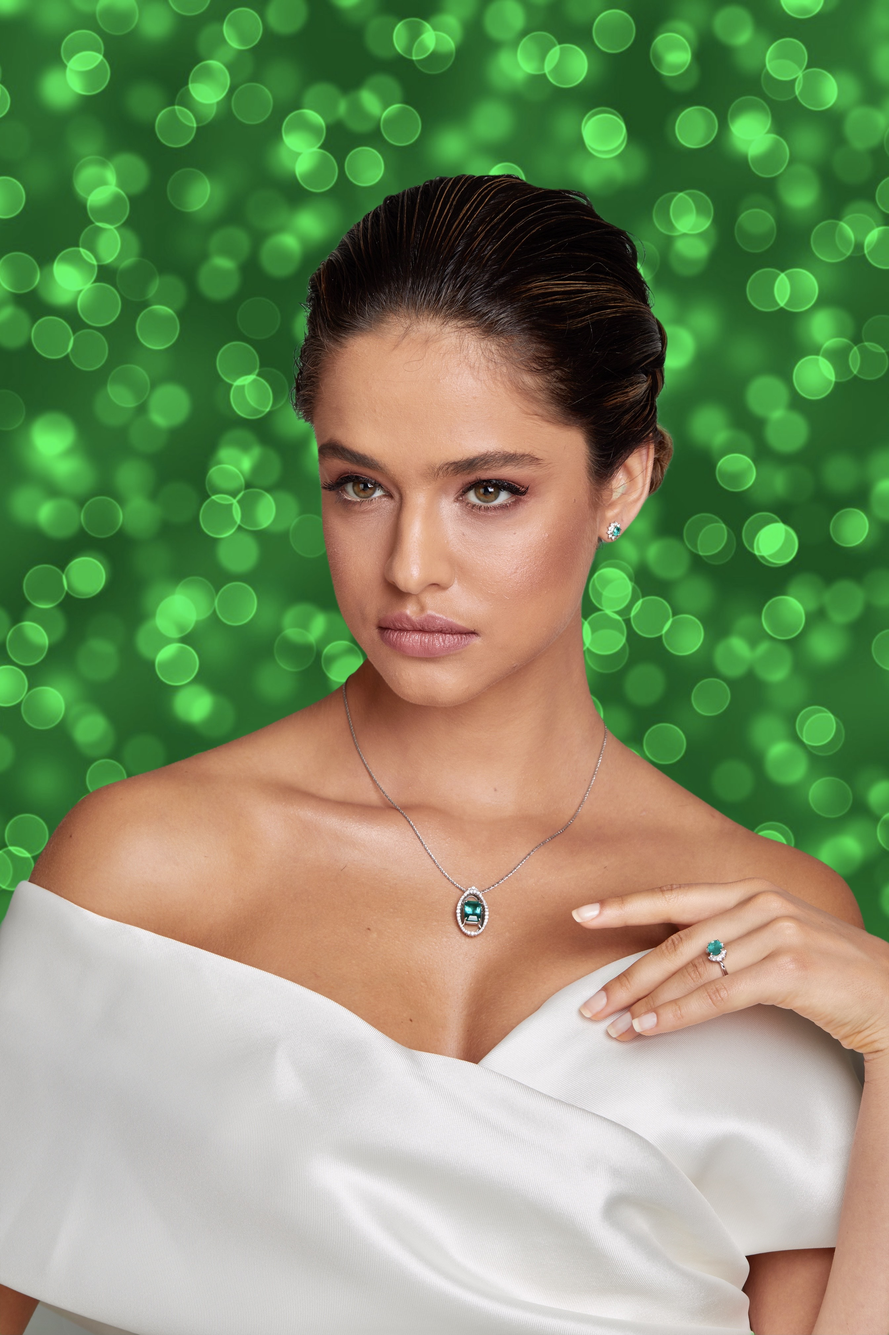
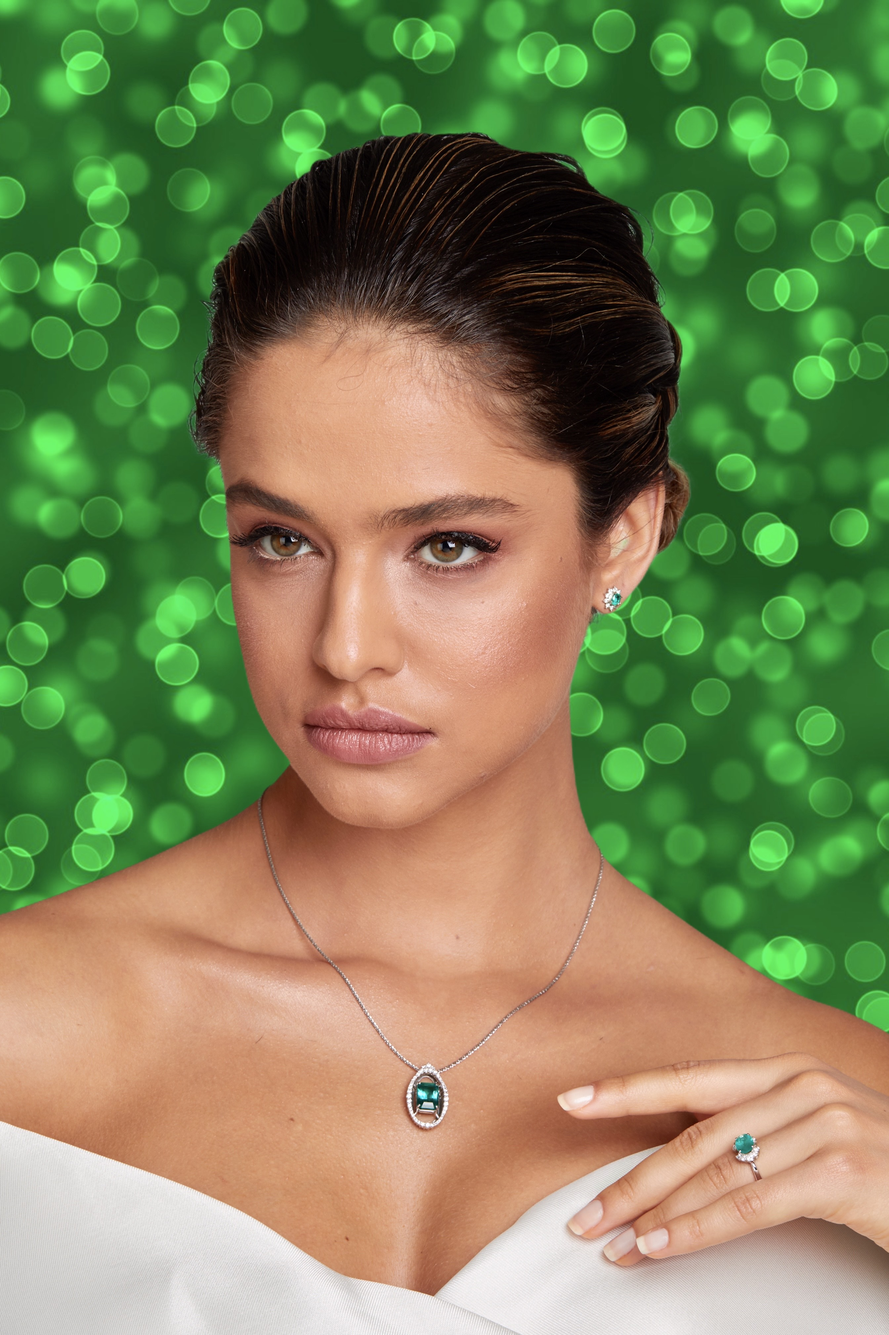
Mudei imagens header

diff --git a/src/components/header/index.tsx b/src/components/header/index.tsx
@@ -12,6 +12,7 @@ import {
     Subtitle
 } from './style'
 import { RoundedButton } from '../button'
+import NextImage from 'next/image'
 
 import Home1 from '../../images/home-1.jpg'
 import Home2 from '../../images/home-2.jpg'
@@ -186,21 +187,36 @@ const header: React.FC = () => {
                 animate={animation1}
                 initial="initial"
             >
-                <Img src={Home1} />
+                <NextImage
+                    layout="fill"
+                    src={Home1}
+                    objectFit="cover"
+                    quality={100}
+                />
             </ImageContainer>
             <ImageContainer
                 variants={imageVariants}
                 animate={animation2}
                 initial="initial"
             >
-                <Img src={Home2} />
+                <NextImage
+                    layout="fill"
+                    src={Home2}
+                    objectFit="cover"
+                    quality={100}
+                />
             </ImageContainer>
             <ImageContainer
                 variants={imageVariants}
                 animate={animation3}
                 initial="initial"
             >
-                <Img src={Home3} />
+                <NextImage
+                    layout="fill"
+                    src={Home3}
+                    objectFit="cover"
+                    quality={100}
+                />
             </ImageContainer>
             <ButtonContainer>
                 <Link href="/shop">

diff --git a/src/components/header/style.ts b/src/components/header/style.ts
@@ -1,5 +1,6 @@
 import styled from 'styled-components'
 import { motion } from 'framer-motion'
+import NextImage from 'next/image'
 
 export const Container = styled(motion.div)`
     height: calc(100vh - 6rem);
@@ -44,7 +45,7 @@ export const ImageContainer = styled(motion.div)`
     } //400px
 `
 
-export const Img = styled(motion.img)`
+export const Img = styled(NextImage)`
     width: 100%;
     height: 100%;
     object-fit: cover;
